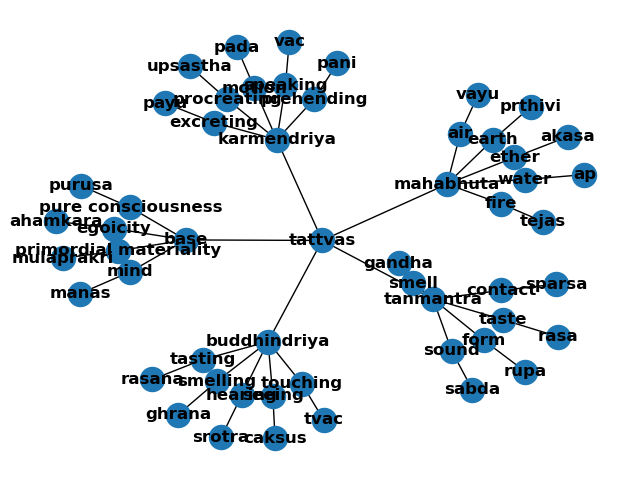
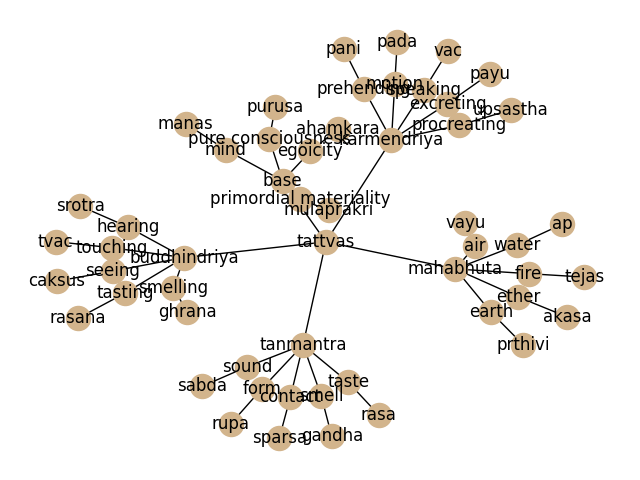
tested samkhya tools on terminal

Changed region(s): [[0.0, 0.0625, 0.9375, 0.9375]]

diff --git a/samkhya/init_samkhya.py b/samkhya/init_samkhya.py
@@ -4,5 +4,7 @@ x_tattvas = read_map_list("data/tattvas.csv")
 #print_mappings(x_tattvas)
 #test = graph_from_map(x_tattvas[2], [("name", "sanskrit")], "tattvas")
 #save_graph(test, "data/test_diag.png")
-test2 = graph_from_list_of_maps(x_tattvas, [("term_name", "sanskrit"), ("category","term_name")], [("tattvas", "category")])
-save_graph(test2, "data/test2_diag.png")
+#test2 = graph_from_list_of_maps(x_tattvas, [("term_name", "sanskrit"), ("category","term_name")], [("tattvas", "category")])
+#save_graph(test2, "data/test2_diag.png")
+test3 = graph_from_list_of_maps(x_tattvas, [("category","term_name")], [("tattvas", "category")])
+save_graph(test3, "data/test3_diag.png")

diff --git a/samkhya/tools.py b/samkhya/tools.py
@@ -39,7 +39,7 @@ def graph_from_map(xi_map, relation_types, root_relations):
     return xi_graph       
 
 def save_graph(xi_graph, fd):
-    nx.draw(xi_graph, with_labels=True, font_weight='bold')
+    nx.draw(xi_graph, with_labels=True, node_color="#d2b48c")
     plt.savefig(fd)
 
 def graph_from_list_of_maps(list_of_maps, relation_types, root_relation):
